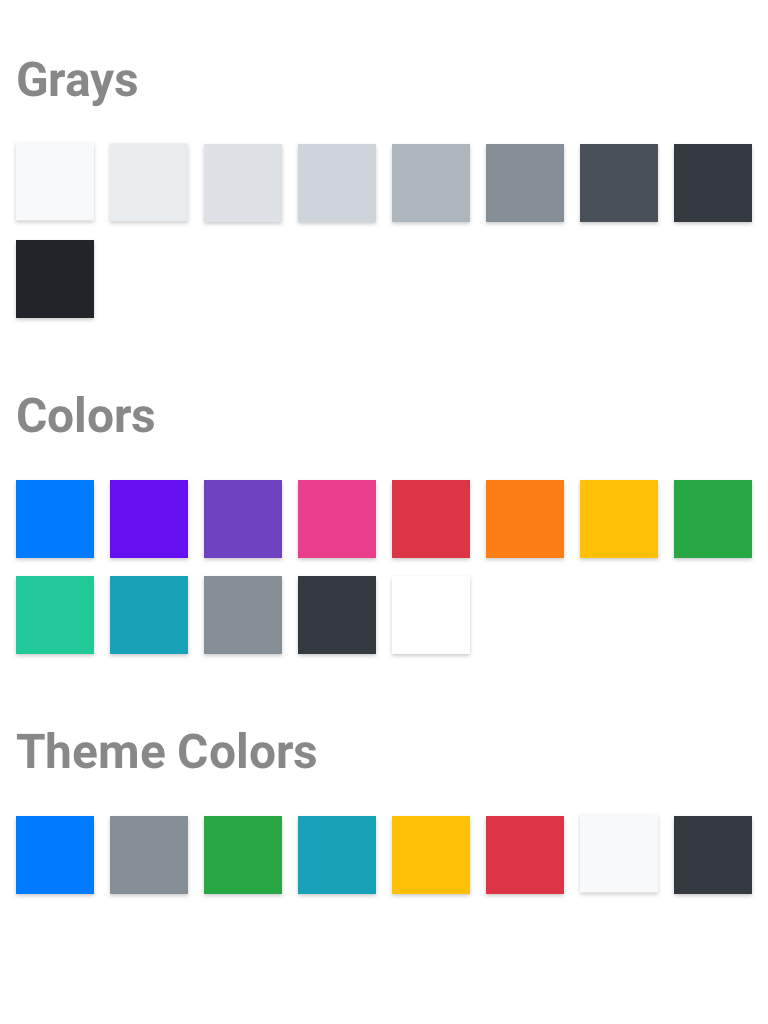
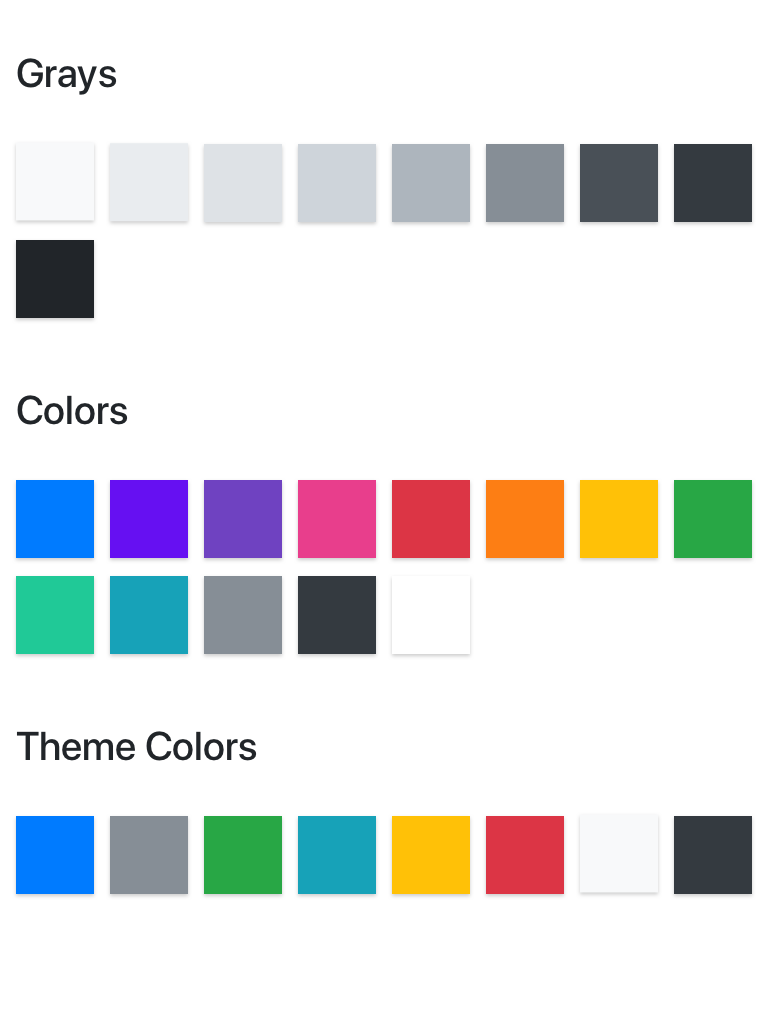
Text styles

Changed region(s): [[0.0312, 0.6875, 0.4062, 0.75], [0.0, 0.375, 0.2188, 0.4375], [0.0, 0.0312, 0.1875, 0.0938]]

diff --git a/README.md b/README.md
@@ -6,7 +6,11 @@ Learning the UI library from the basics with Sketch and BS4 with SCSS
 
 ### Color Palette (bs4/colors/)
 
-![Color Palette](libraries/colors.png)
+![Color Palette](libraries/Colors.png)
+
+### Typography
+
+![Typography](libraries/Typography.png)
 
 
 ## Author
